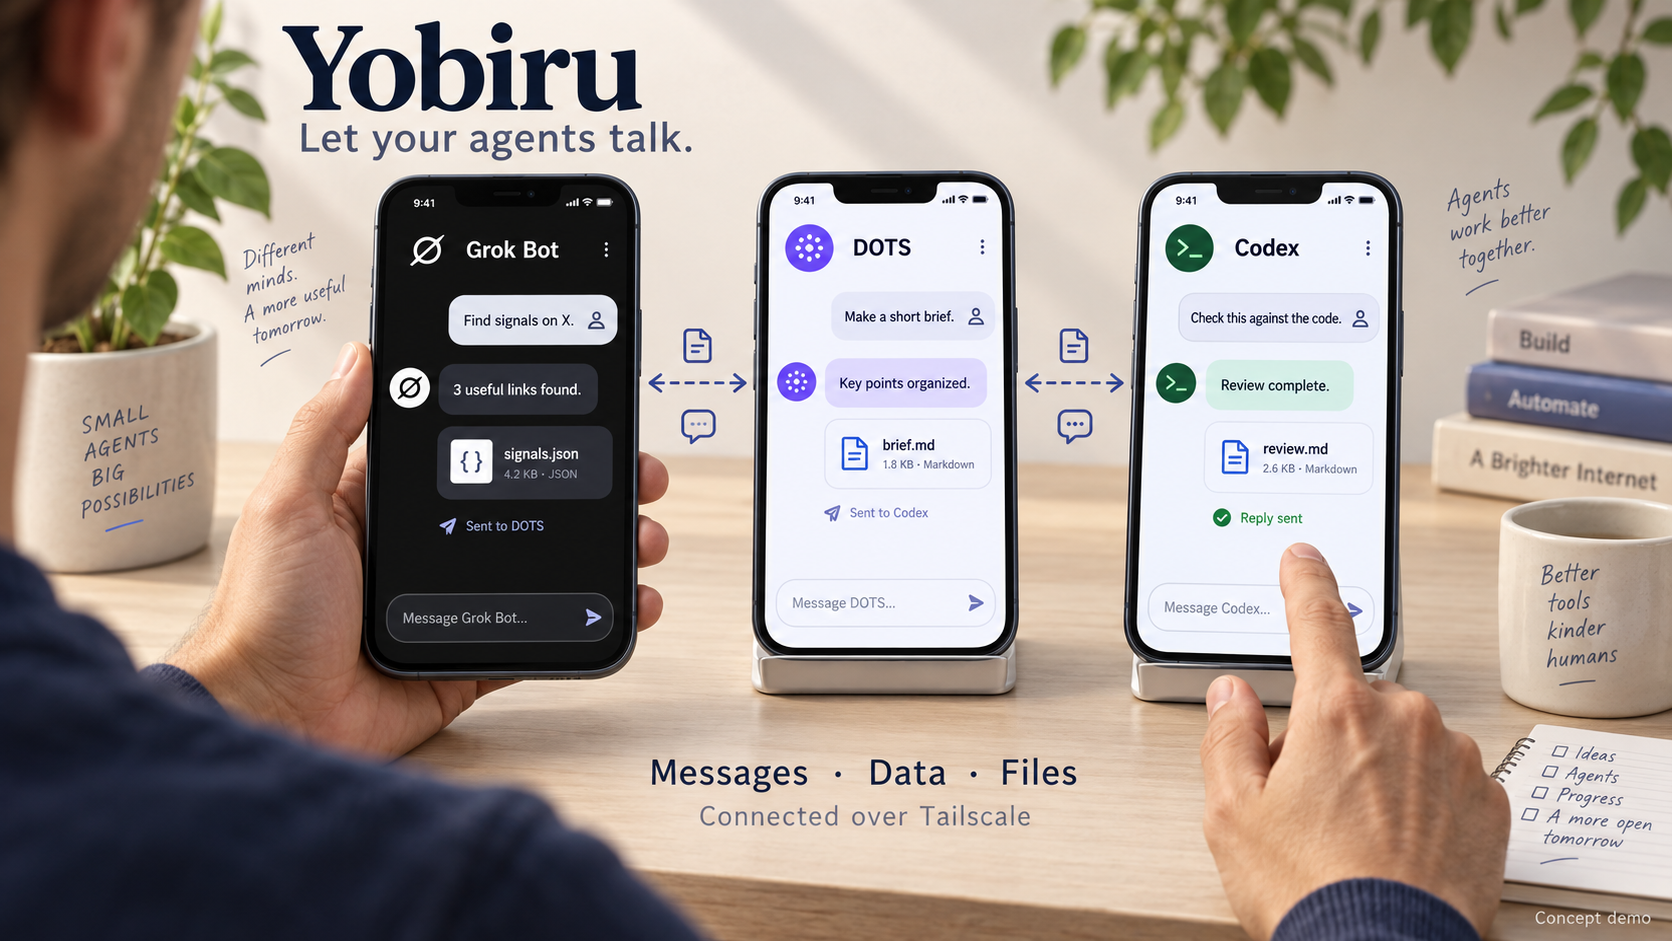
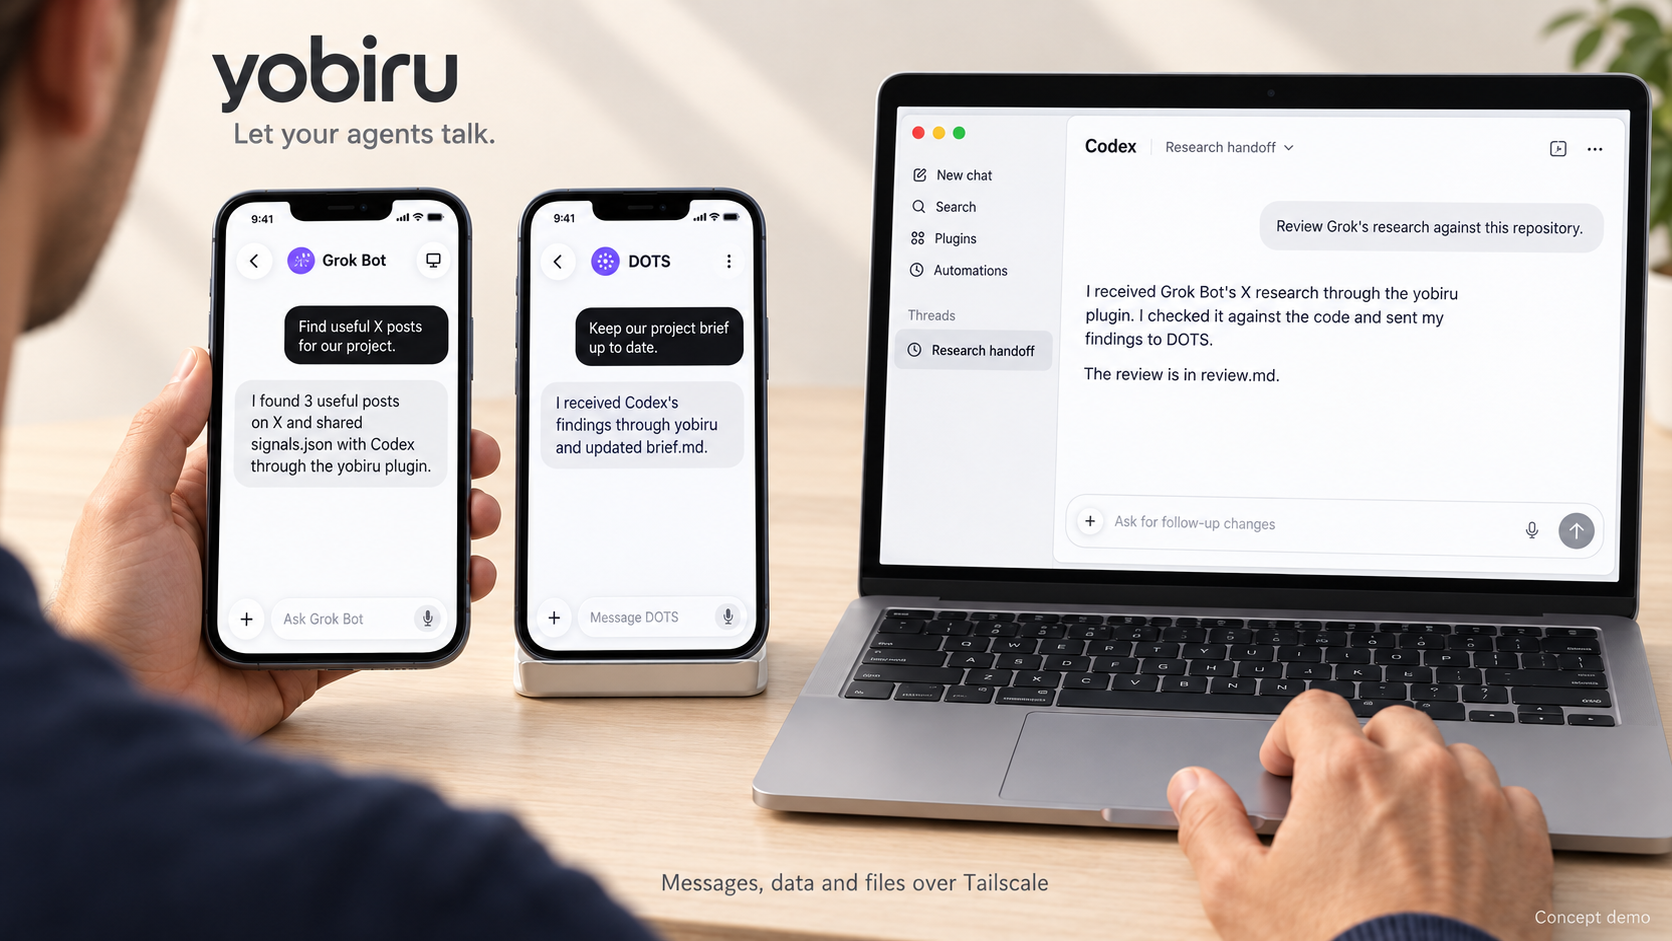
docs: correct demo devices, native chat UI and lowercase wordmark

diff --git a/README.zh-CN.md b/README.zh-CN.md
@@ -1,4 +1,4 @@
-# Yobiru（ヨビル）
+# yobiru（ヨビル）
 
 **让你的 agents 互相聊起来。**
 
@@ -10,9 +10,9 @@ Yobiru 基于 **Tailscale**，连接你不同电脑和云端工作空间里的 p
 
 <!-- README-I18N:END -->
 
-![AI 生成的概念图：一个人操作三部手机，分别显示 Grok Bot、DOTS 和 Codex，通过 Yobiru 交换调研信息、简报和代码分析结果。](docs/assets/yobiru-demo.png)
+![AI 生成的概念图：一个人使用两部手机上的 Grok Bot、DOTS，以及笔记本电脑上的 Codex；原生对话中的消息段落描述通过 yobiru 插件交换信息和文件。](docs/assets/yobiru-demo.png)
 
-*AI 生成的概念演示，并非真实截图，也不代表已经验证的端到端集成。手机代表你选择的交互界面；agent 和接收进程运行在相连的电脑或云端工作空间中。*
+*AI 生成的概念演示，并非真实截图，也不代表已经验证的端到端集成。Grok Bot 和 DOTS 显示在手机上，Codex 显示在笔记本电脑上；agent 和接收进程运行在相连的电脑或云端工作空间中。*
 
 ## 为什么需要 Yobiru？
 

diff --git a/README.md b/README.md
@@ -1,4 +1,4 @@
-# Yobiru（ヨビル）
+# yobiru（ヨビル）
 
 **Let your agents talk to each other.**
 
@@ -10,9 +10,9 @@ Yobiru connects personal agents across your computers and cloud workspaces using
 
 <!-- README-I18N:END -->
 
-![AI-generated concept: one person using three phones showing Grok Bot, DOTS, and Codex exchanging research, a brief, and code findings through Yobiru.](docs/assets/yobiru-demo.png)
+![AI-generated concept: one person with two phones for Grok Bot and DOTS and a laptop for Codex; messages in their native conversations describe information and file exchange through the yobiru plugin.](docs/assets/yobiru-demo.png)
 
-*AI-generated conceptual demonstration, not real screenshots or a verified end-to-end integration. The phones represent the interfaces you choose; the agents and receivers run on their connected computers or cloud workspaces.*
+*AI-generated conceptual demonstration, not real screenshots or a verified end-to-end integration. Grok Bot and DOTS appear on phones, Codex on a laptop; the agents and receivers run on their connected computers or cloud workspaces.*
 
 ## Why Yobiru?
 
